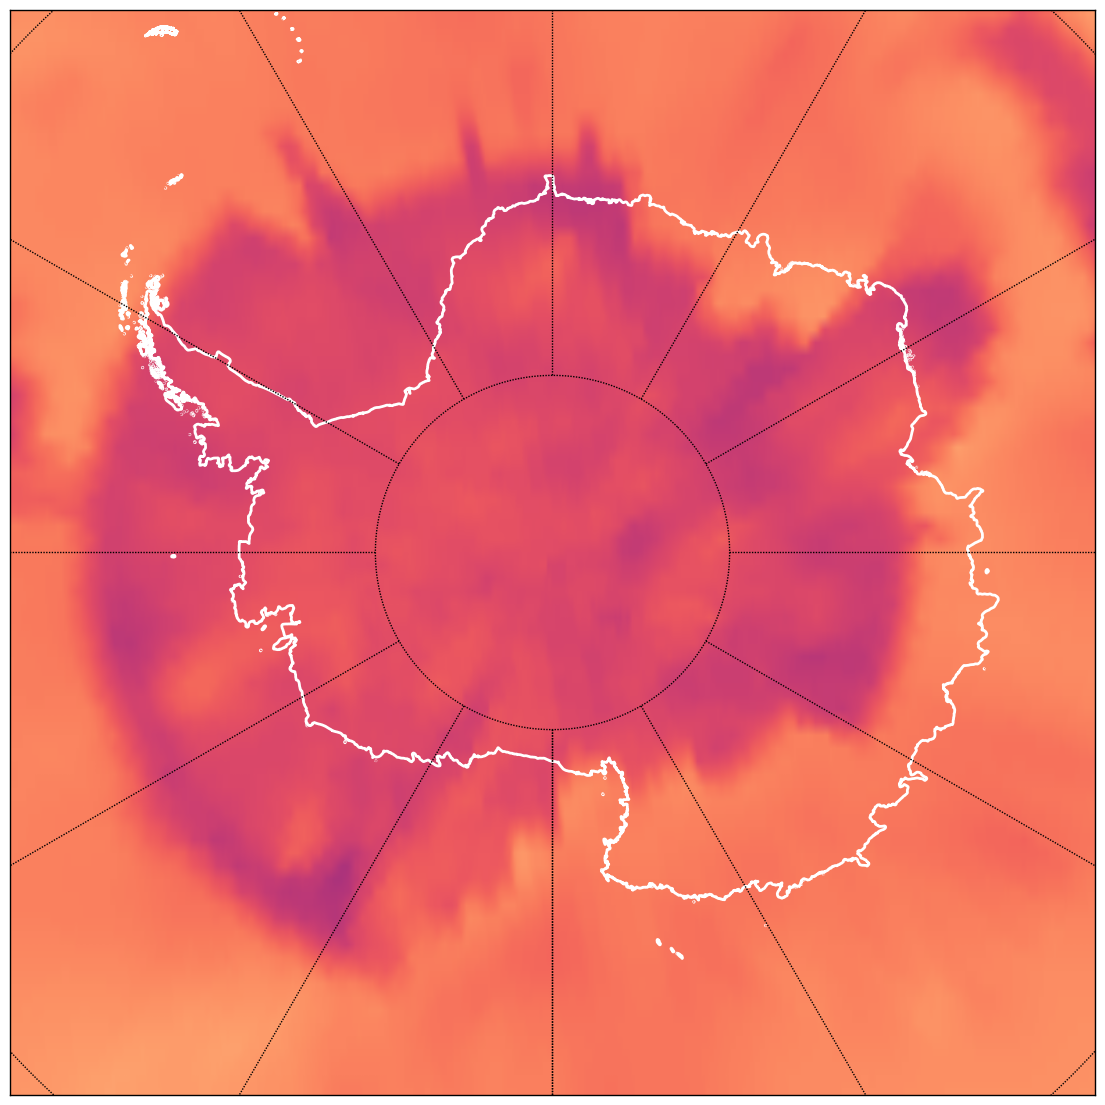
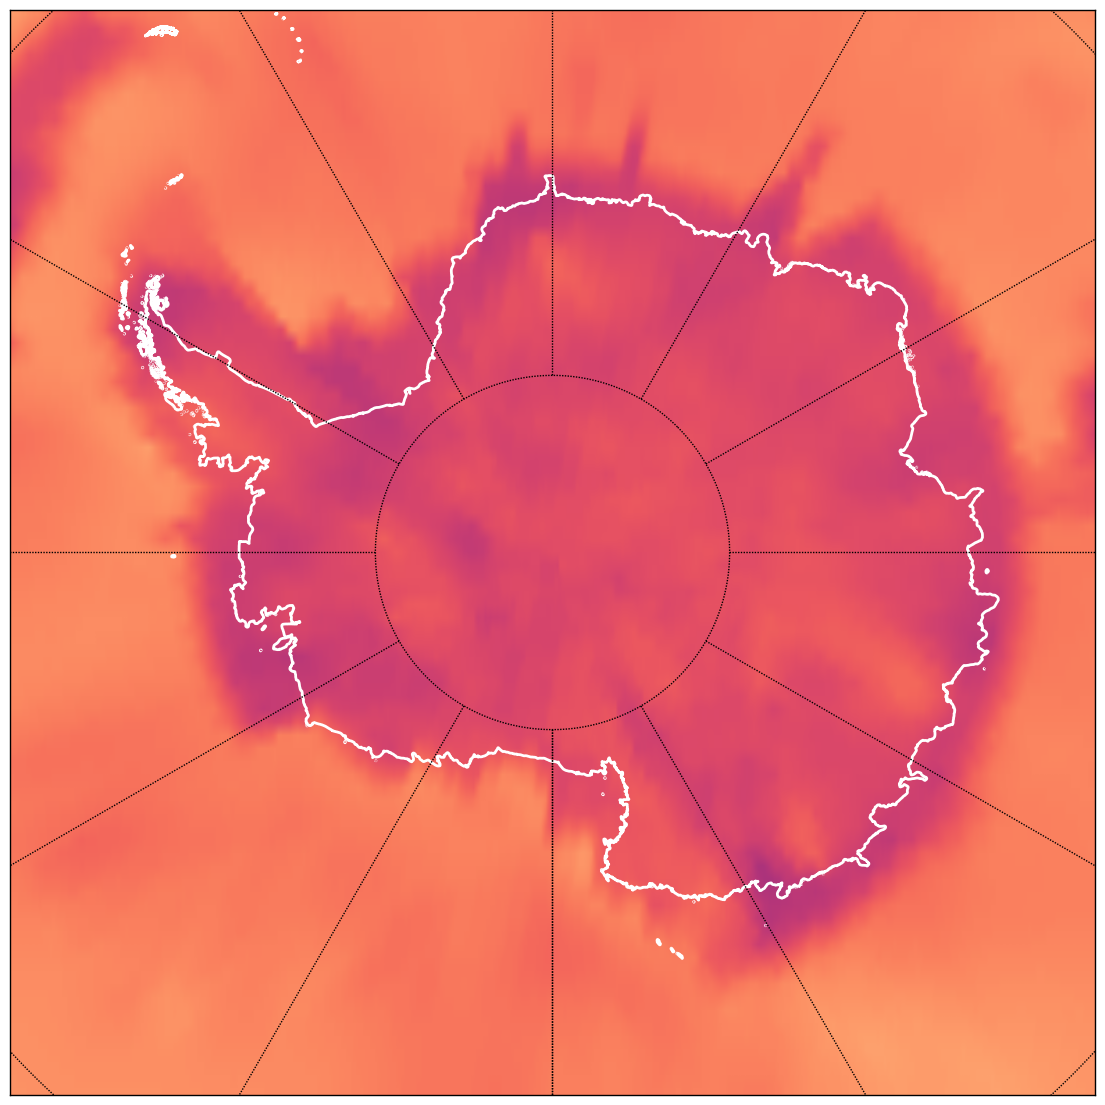
Fix projection

diff --git a/test_io.py b/test_io.py
@@ -185,6 +185,9 @@ def array2images(data_cube, file_list, img_color_map, lons, lats,
     image_dir = 'img', 
     proj_it = True,
     proj_type = 'sptere',
+    flip_flop = True,
+    rotting = True,
+    swip = True,
     exp_bar = True):
     '''
     Save array slices to images
@@ -206,6 +209,12 @@ def array2images(data_cube, file_list, img_color_map, lons, lats,
         Save as projected
     proj_type: string
         Projection
+    rotting: boolean
+        Rotate array?
+    flip_flop: boolean
+        Flip array?    
+    swip: boolean
+        swap array    
     exp_bar: boolean
         Export colorbar as image
 
@@ -232,8 +241,13 @@ def array2images(data_cube, file_list, img_color_map, lons, lats,
     if not os.path.exists(img_dir):
         os.makedirs(img_dir)
     
-    data_cube = np.rot90(data_cube, 1)
-    data_cube = np.swapaxes(data_cube, cube_swap[0], cube_swap[1]) # rotate to get orientation
+    if flip_flop:
+        data_cube = np.fliplr(data_cube)
+    if rotting:
+        data_cube = np.rot90(data_cube, 1)
+    if swip:
+        data_cube = np.swapaxes(data_cube, cube_swap[0], cube_swap[1]) # rotate to get orientation
+
     
     if proj_it:
         fig = plt.figure(figsize=(14,14))
@@ -250,7 +264,7 @@ def array2images(data_cube, file_list, img_color_map, lons, lats,
     if verbose:
         print 'Saving images:'
     
-    for layer_index in xrange(0, len(file_list)-43, 1): ##### delete!!!!
+    for layer_index in xrange(0, len(file_list), 1): ##### delete!!!!
         
  #       plt.clim(min_cmap,max_cmap)
        
@@ -267,15 +281,6 @@ def array2images(data_cube, file_list, img_color_map, lons, lats,
             bbox_inches='tight', transparent=True)
     return  	
 
-
-def save_extension(lons,lats):
-    ab = np.zeros(lats.size, dtype=[('lons', float), ('lats', float)])
-    ab['var1'] = lons
-    ab['var2'] = lats
-
-    np.savetxt('test.txt', ab, fmt="%10.3f %10.3f")
-    
-    return
 
 
 #Todo:
@@ -308,7 +313,6 @@ data_cube, lons, lats = import_layers(
 
 array2images(data_cube, file_list, img_color_map, lons, lats)
 
-save_extension(lons,lats)
 
 
 if save_array:
@@ -325,6 +329,16 @@ if verbose:
     print 'lons: ', min(lons), 'to', max(lons)
     print 'Data range: %g to %g' %(np.nanmin(data_cube), np.nanmax(data_cube)) 
 
+
+text_file = open('extension.txt', 'w')
+text_file.write('Imported layers: \n' +
+        ','.join(map(str, file_list))+'\n\n' +
+        'Size of dataset: ' + str(data_cube.shape) +
+        'Lons: \n' + 
+        ','.join(map(str, lons))+'\n\n' +
+        'Lats: \n' +
+        ','.join(map(str, lats))+'\n')
+text_file.close()
 
 
 
